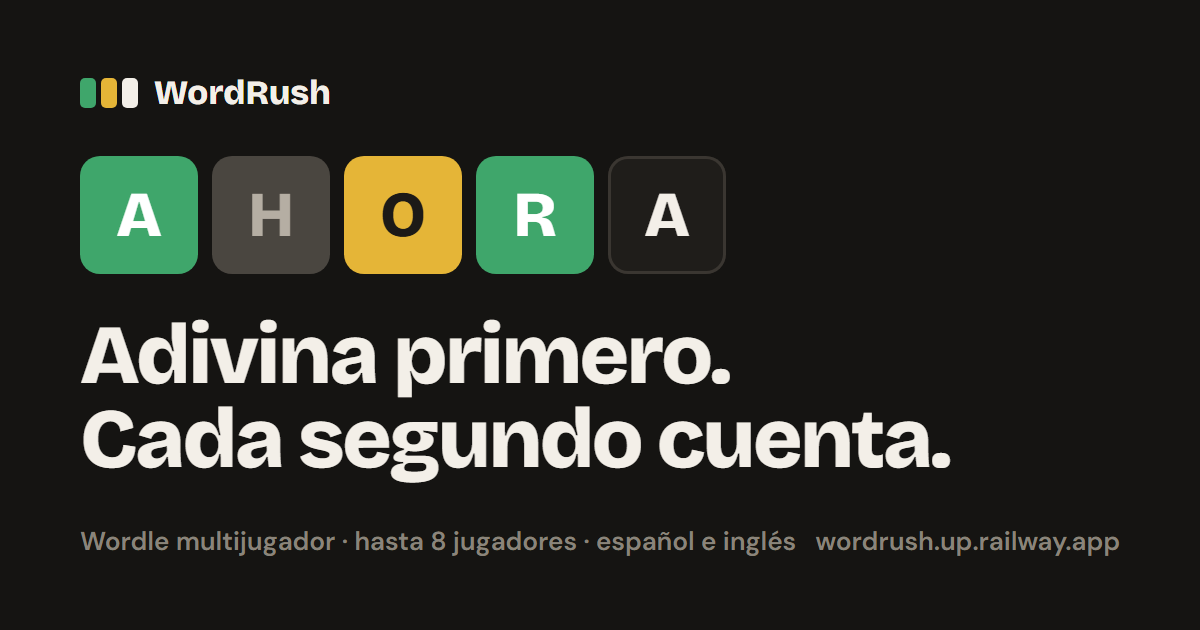
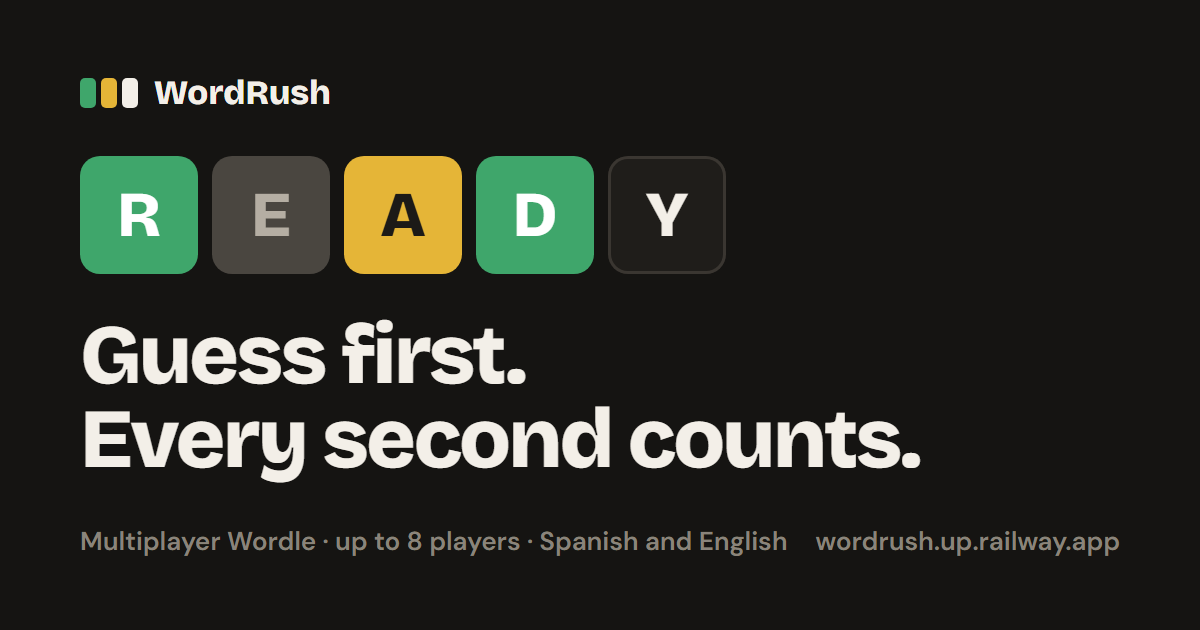
Link preview in English

diff --git a/frontend/index.html b/frontend/index.html
@@ -10,27 +10,27 @@
     <meta name="theme-color" content="#1C1A17" />
     <meta
       name="description"
-      content="Wordle multijugador para hasta 8 personas, en español e inglés. Cada letra nueva suma segundos, cada acierto ajeno te los quita. Gana quien termina con más reloj."
+      content="Multiplayer Wordle for up to 8 players, in Spanish and English. Every new letter adds seconds, every rival solve takes them away. Whoever ends with the most clock wins."
     />
     <meta property="og:type" content="website" />
     <meta property="og:site_name" content="WordRush" />
-    <meta property="og:title" content="WordRush · Wordle multijugador" />
+    <meta property="og:title" content="WordRush · Multiplayer Wordle" />
     <meta
       property="og:description"
-      content="Adivina primero. Cada segundo cuenta. Salas de hasta 8 jugadores, en español e inglés."
+      content="Guess first. Every second counts. Rooms of up to 8 players, in Spanish and English."
     />
     <meta property="og:url" content="https://wordrush.up.railway.app/" />
     <meta property="og:image" content="https://wordrush.up.railway.app/og.png" />
     <meta property="og:image:width" content="1200" />
     <meta property="og:image:height" content="630" />
-    <meta property="og:image:alt" content="WordRush: Adivina primero. Cada segundo cuenta." />
-    <meta property="og:locale" content="es_ES" />
-    <meta property="og:locale:alternate" content="en_US" />
+    <meta property="og:image:alt" content="WordRush: Guess first. Every second counts." />
+    <meta property="og:locale" content="en_US" />
+    <meta property="og:locale:alternate" content="es_ES" />
     <meta name="twitter:card" content="summary_large_image" />
-    <meta name="twitter:title" content="WordRush · Wordle multijugador" />
+    <meta name="twitter:title" content="WordRush · Multiplayer Wordle" />
     <meta
       name="twitter:description"
-      content="Adivina primero. Cada segundo cuenta. Salas de hasta 8 jugadores, en español e inglés."
+      content="Guess first. Every second counts. Rooms of up to 8 players, in Spanish and English."
     />
     <meta name="twitter:image" content="https://wordrush.up.railway.app/og.png" />
     <link rel="preconnect" href="https://fonts.googleapis.com" />
